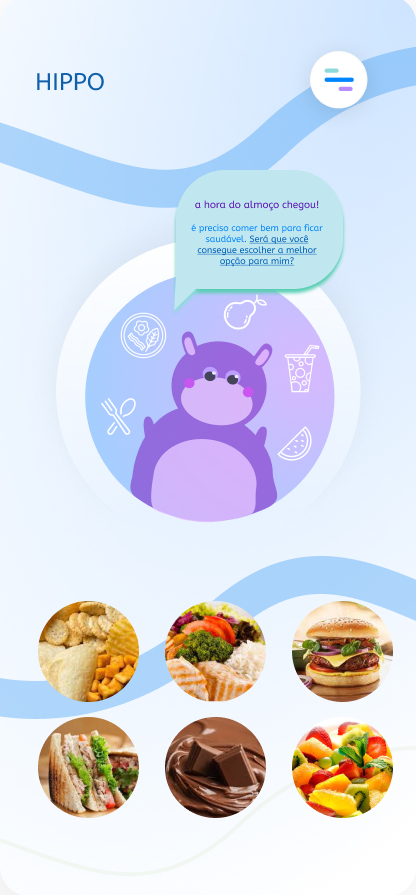
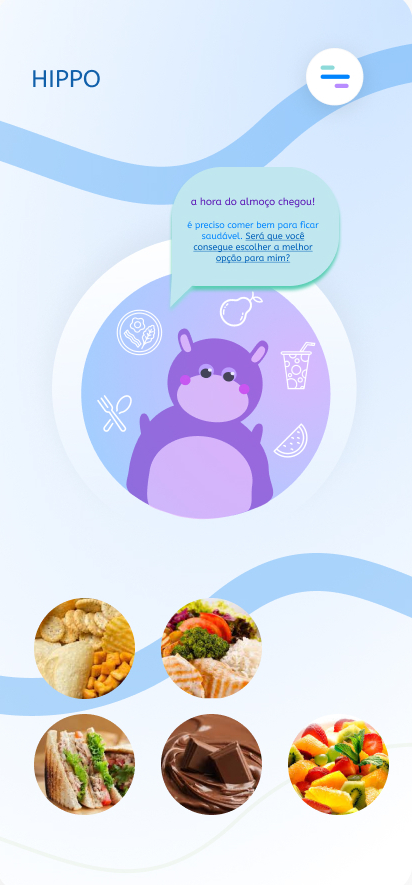
Add snack button on feed screen

diff --git a/App.js b/App.js
@@ -8,6 +8,7 @@ const Stack = createNativeStackNavigator();
 const background = './assets/Marketing.jpg';
 const play = './assets/Play.png'
 const feed = './assets/Feed.jpg'
+const snack = './assets/Snack.png'
 
 const MyStack = () => {
   return (
@@ -35,7 +36,7 @@ const Home = ({ navigation }) => {
       <ImageBackground source={require(background)} resizeMode="cover" style={styles.image}>
       </ImageBackground>
       <TouchableOpacity
-        style={styles.button}
+        style={styles.play}
         onPress={() => navigation.navigate('Feed')}
       >
           <Image source={require(play)}/>
@@ -49,6 +50,11 @@ const Feed = ({ navigation }) => {
     <View style={styles.container}>
       <ImageBackground source={require(feed)} resizeMode="cover" style={styles.image}>
       </ImageBackground>
+      <TouchableOpacity
+        style={styles.snack}
+      >
+          <Image source={require(snack)}/>
+      </TouchableOpacity>
     </View>
   );
 }
@@ -69,10 +75,15 @@ const styles = StyleSheet.create({
     textAlign: "center",
     backgroundColor: "#000000c0"
   },
-  button: {
+  play: {
     position: "absolute",
     top: 410,
-    left: 50,
+    left: 50
+  },
+  snack: {
+    position: "absolute",
+    top: 545,
+    left: 275
   }
 });
 
